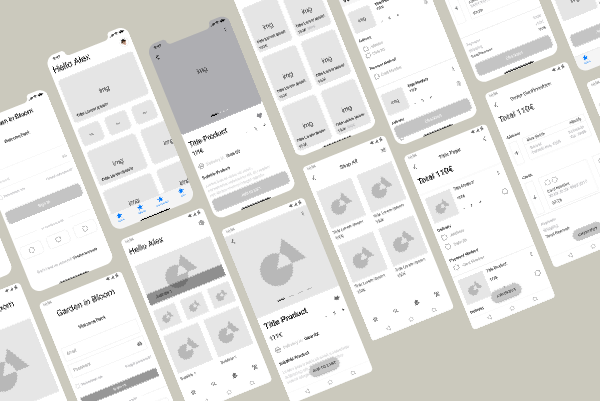
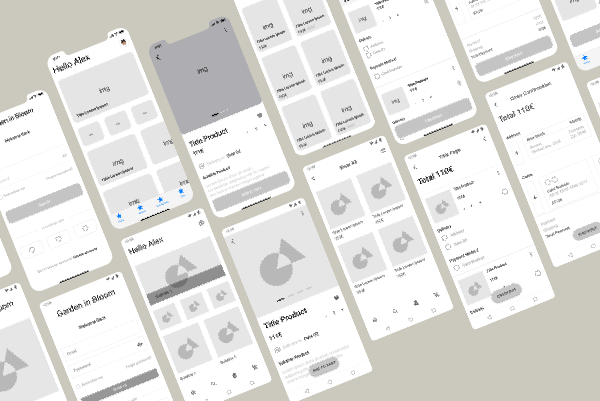
Garden in Bloom - added pictures

diff --git a/gardeninbloom.html b/gardeninbloom.html
@@ -39,11 +39,11 @@
       <div class="container">
         <div class="row">
           <div class="col-md-3">
-            <h1 class="title">Garden In Bloom</h1>
+            <h1 class="title">Garden <br> In Bloom</h1>
           </div>
           <div class="col-md-8">
             <p>Conceptualized and crafted a native mobile app where you can buy
-              plants. Designed to follow each platform's standard, mixed with a
+              plants. Designed to follow each platform's standard, created with a
               visual identity that reminds the values of the product. Providing the best shop experience solution
               and personalized plants care.</p>
           </div>
@@ -59,20 +59,7 @@
     </div>
     <div class="section">
       <div class="container">
-        <div class="row">
-          <div class="col-md-6 padding-right">
-            <picture>
-              <source srcset="img/gardeninbloom/gardeninbloom_onboarding@1x.png" media="(max-width:767px)">
-              <img src="img/gardeninbloom/gardeninbloom_onboarding@2x.png" alt="Garden-in-Bloom-App">
-            </picture>
-          </div>
-          <div class="col-md-6 padding-left">
-            <picture>
-              <source srcset="img/gardeninbloom/gardeninbloom_logo@1x.png" media="(max-width:767px)">
-              <img src="img/gardeninbloom/gardeninbloom_logo@2x.png" alt="Garden-in-Bloom-App">
-            </picture>
-          </div>
-        </div>
+
         <div class="row quote-center">
           <h2 class="quote">The aim of Amount is to help people to save money quickly
             in preparation for a big purchase or expenditure, keeping your budget
@@ -89,11 +76,9 @@
             <h3>Research</h3>
           </div>
           <div class="col-md-8">
-            <p>After studying multiple competitors such as Peak, Digs, Eco, Revolut,
-              Digit and more. I defined the main features and layout of the App.
-              Based on the competitor research, I created a user flow that reflects
-              the user's progress from the launch of the app to the insight of the
-              goals</p>
+            <p>To begin I had to determine the problem I was trying to solve for users. The first step was to research through competitor
+              analysis, then, I aimed to define users stories. The next step was to ideate solutions
+              through wireframe and once the prototype was compleated, I moved to validate usability to build the final screens</p>
           </div>
 
         </div>
@@ -101,7 +86,7 @@
         <div class="row">
           <picture>
             <source srcset="img/gardeninbloom/gardeninbloom_wireframes_photo@1x.png" media="(max-width:767px)">
-            <img src="img/gardeninbloom/gardeninbloom_wireframes_photo@2x.png" alt="Amount-Saving-money-app">
+            <img src="img/gardeninbloom/gardeninbloom_wireframes_photo@2x.png" alt="Garden-in-Bloom-App">
           </picture>
 
 
@@ -112,73 +97,105 @@
             <h3>Wireframes</h3>
           </div>
           <div class="col-md-8">
-            <p>During this process, I’ve designed different patterns for the same
-              screen and and I took a decision according to the values of the app,
-              competitors and mood. I tried to simplify as much as possible the
-              schemes - since it could be difficult to be understood, I preferred to
-              design a layout intuitive, simple but effective</p>
+            <p>After the competitor research was completed.
+              I moved to the wireframes to map out
+              the functionalities. I wanted to create a style that has no big contrasts, delicate,
+              with big white space between the elements, in order to match with the essence of the products.</p>
           </div>
-
         </div>
-
-        <div class="row">
-          <picture>
-            <source srcset="img/amount/amount_ideation_photo@1x.png" media="(max-width:767px)">
-            <img src="img/amount/amount_ideation_photo@2x.png" alt="Amount-Saving-money-app">
-          </picture>
-
-
-        </div>
-
         <div class="row">
           <div class="col-md-6 padding-right">
             <picture>
-              <source srcset="img/amount/amount_type@1x.png" media="(max-width:767px)">
-              <img src="img/amount/amount_type@2x.png" alt="Amount-Saving-money-app">
+              <source srcset="img/gardeninbloom/gardeninbloom_onboarding@1x.png" media="(max-width:767px)">
+              <img src="img/gardeninbloom/gardeninbloom_onboarding@2x.png" alt="Garden-in-Bloom-App">
             </picture>
           </div>
           <div class="col-md-6 padding-left">
             <picture>
-              <source srcset="img/amount/amount_color@1x.png" media="(max-width:767px)">
-              <img src="img/amount/amount_color@2x.png" alt="Amount-Saving-money-app">
+              <source srcset="img/gardeninbloom/gardeninbloom_logo@1x.png" media="(max-width:767px)">
+              <img src="img/gardeninbloom/gardeninbloom_logo@2x.png" alt="Garden-in-Bloom-App">
             </picture>
           </div>
         </div>
-
+        <div class="row">
+          <picture>
+            <source srcset="img/gardeninbloom/gardeninbloom_animation_1x.gif" media="(max-width:767px)">
+            <img src="img/gardeninbloom/gardeninbloom_animation_2x.gif" alt="Amount-Saving-money-app">
+          </picture>
+        </div>
+        <div class="row">
+          <div class="col-md-6 padding-right">
+            <picture>
+              <source srcset="img/gardeninbloom/gardeninbloom_type@1x.png" media="(max-width:767px)">
+              <img src="img/gardeninbloom/gardeninbloom_type@2x.png" alt="Amount-Saving-money-app">
+            </picture>
+          </div>
+          <div class="col-md-6 padding-left">
+            <picture>
+              <source srcset="img/gardeninbloom/gardeninbloom_color@1x.png" media="(max-width:767px)">
+              <img src="img/gardeninbloom/gardeninbloom_color@2x.png" alt="Amount-Saving-money-app">
+            </picture>
+          </div>
+        </div>
         <div class="row">
           <div class="col-md-3">
             <h3>Ideation</h3>
           </div>
           <div class="col-md-8">
-            <p>Typography and photography play a key roles in brand identity. The
-              finances will be explained with big typography and minimal charts to
-              make it understandable for every user. Amount has two main values
-              that the brand identity has to show: the fintech, logical and precise
-              side, along with the young and fiercely side. The font Fractul, thanks to
-              its design, represents both of those values</p>
+            <p>Indoor plants are a part of decoration and what gives them life is light.
+              The colour palette is inspired by different lightning during the day that gives life to plant and is part of the room.
+              The Get Inspired section helps users in searching the needed products, giving a preview of the product in a room.</p>
           </div>
-
         </div>
 
         <div class="row">
           <picture>
-            <source srcset="img/amount/amount_design_photo@1x.png" media="(max-width:767px)">
-            <img src="img/amount/amount_design_photo@2x.png" alt="Amount-Saving-money-app">
+            <source srcset="img/gardeninbloom/gardeninbloom_home@1x.png" media="(max-width:767px)">
+            <img src="img/gardeninbloom/gardeninbloom_home@2x.png" alt="Garden-in-Bloom-App">
           </picture>
-
-
         </div>
-
+        <div class="row">
+          <div class="col-md-6 padding-right">
+            <picture>
+              <source srcset="img/gardeninbloom/gardeninbloom_shop@1x.png" media="(max-width:767px)">
+              <img src="img/gardeninbloom/gardeninbloom_shop@2x.png" alt="Garden-in-Bloom-App">
+            </picture>
+          </div>
+          <div class="col-md-6 padding-left">
+            <picture>
+              <source srcset="img/gardeninbloom/gardeninbloom_cart@1x.png" media="(max-width:767px)">
+              <img src="img/gardeninbloom/gardeninbloom_cart@2x.png" alt="Garden-in-Bloom-App">
+            </picture>
+          </div>
+        </div>
         <div class="row">
           <div class="col-md-3">
             <h3>Design</h3>
           </div>
           <div class="col-md-8">
-            <p>The home provides the latest and updated state of your total
-              achievement and for more details, users can immediately click to go
-              to the analytics section. The intuitive, clear and simple layout has
-              been designed to help every user to understand and control their
-              goals</p>
+            <p>All products are listed with big pictures and a minimal effective design to give a more enjoyable shopping experience.
+            After searching a product, users see the result in a single screen that allows them to read and decide to add the product to the cart.
+          Also, you can turn notifications on and stay updated on your plants needs and take care of them with the guide kit.</p>
+          </div>
+        </div>
+        <div class="row">
+          <picture>
+            <source srcset="img/gardeninbloom/gardeninbloom_product@1x.png" media="(max-width:767px)">
+            <img src="img/gardeninbloom/gardeninbloom_product@2x.png" alt="Garden-in-Bloom-App">
+          </picture>
+        </div>
+        <div class="row">
+          <div class="col-md-6 padding-right">
+            <picture>
+              <source srcset="img/gardeninbloom/gardeninbloom_yourgarden@1x.png" media="(max-width:767px)">
+              <img src="img/gardeninbloom/gardeninbloom_yourgarden@2x.png" alt="Garden-in-Bloom-App">
+            </picture>
+          </div>
+          <div class="col-md-6 padding-left">
+            <picture>
+              <source srcset="img/gardeninbloom/gardeninbloom_mood@1x.png" media="(max-width:767px)">
+              <img src="img/gardeninbloom/gardeninbloom_mood@2x.png" alt="Garden-in-Bloom-App">
+            </picture>
           </div>
         </div>
         <div class="row">
@@ -186,14 +203,13 @@
             <h3>Prototype</h3>
           </div>
           <div class="col-md-8">
-            <p>Check, modify, add money or withdraw whenever you want. It's easy
-              with Amount</p>
+            <p>The App has also an Android version and they differ from each other because in detail they follow the different standards of each platform.</p>
           </div>
         </div>
         <div class="row">
           <picture>
-            <source srcset="img/amount/amount_prototype_photo@1x.png" media="(max-width:767px)">
-            <img src="img/amount/amount_prototype_photo@2x.png" alt="Amount-Saving-money-app">
+            <source srcset="img/gardeninbloom/gardeninbloom_prototype@1x.png" media="(max-width:767px)">
+            <img src="img/gardeninbloom/gardeninbloom_prototype@2x.png" alt="Garden-in-Bloom-App">
           </picture>
         </div>
 
@@ -254,7 +270,7 @@
     </div>
   </footer>
   <script src="https://code.jquery.com/jquery-3.3.1.min.js" integrity="sha256-FgpCb/KJQlLNfOu91ta32o/NMZxltwRo8QtmkMRdAu8=" crossorigin="anonymous"></script>
-<script src="js/scripts.js"></script>
+  <script src="js/scripts.js"></script>
   <script src="js/scripts.js"></script>
 </body>
 
